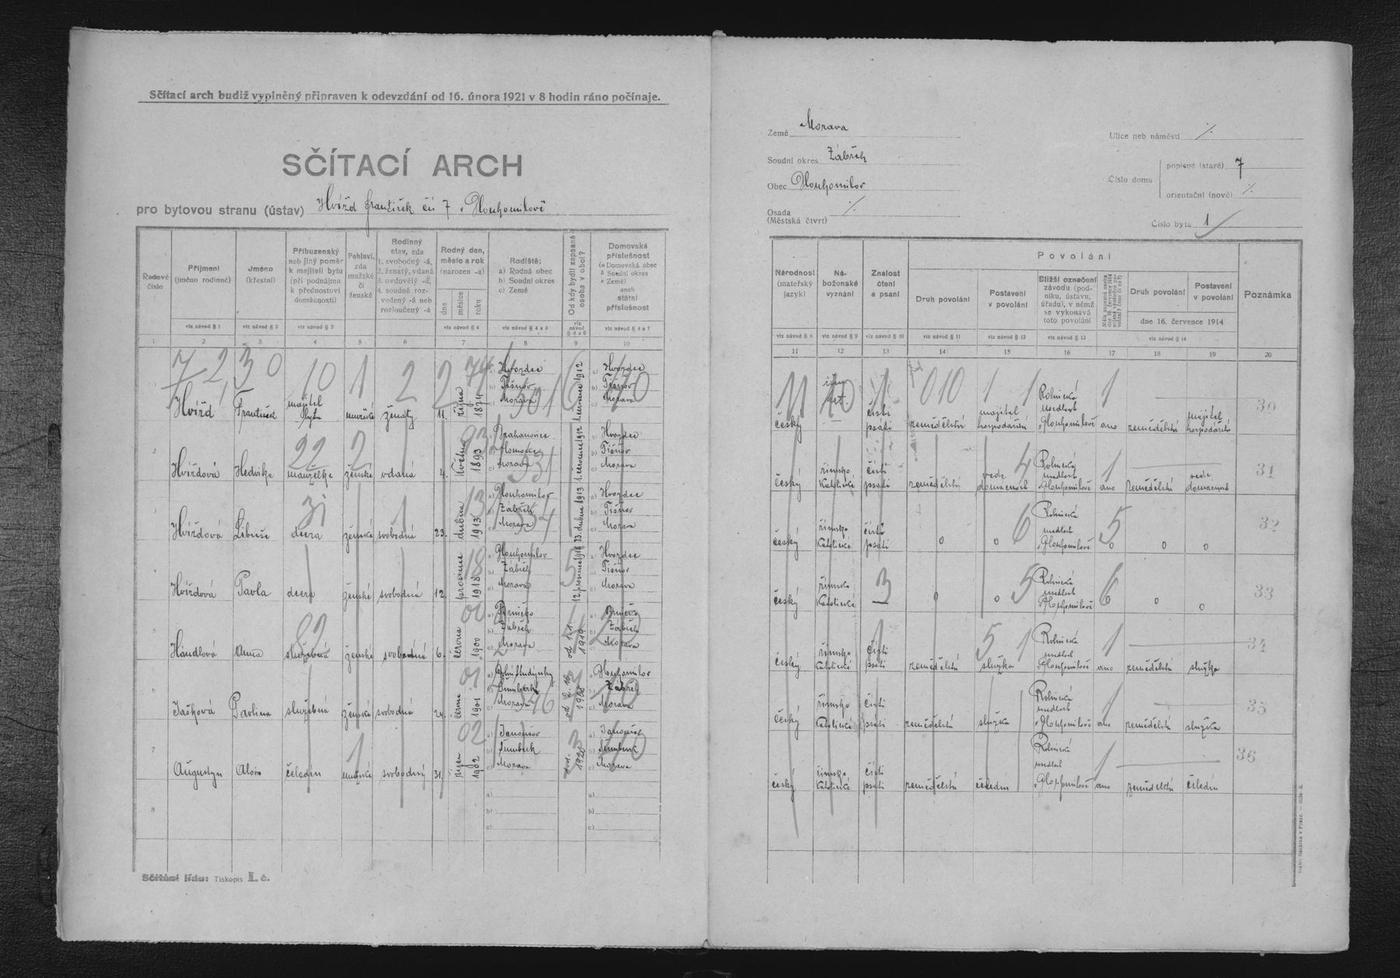
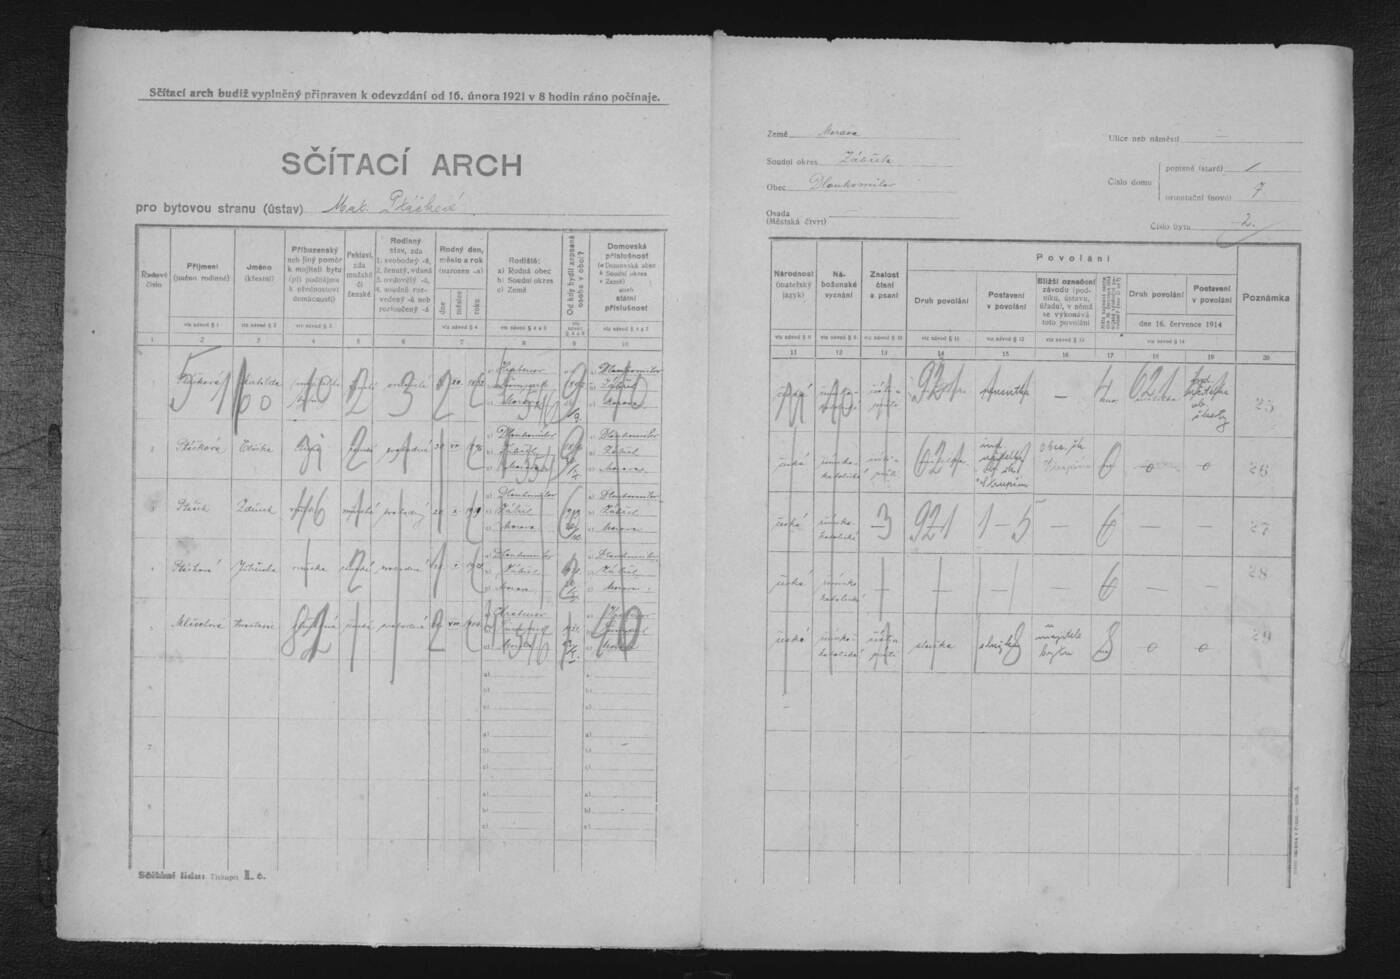
fix(cp7): overeni a oprava obyvatel bytu c. 2 rychty cp. 7 ze skenu 1921 (Ptackovi a Mlochova)

diff --git a/data/houses.js b/data/houses.js
@@ -916,7 +916,7 @@ const housesData = [
       {
         "year": "1921",
         "owner": "František Hvížď (*1874)",
-        "event": "Sčítání 1921: Majitelem rychty je František Hvížď z Hvozdce. Na výměnku žije Mathilda Ptáčková roz. Všetečková (z původního dědičného rychtářského rodu Všetečků) s dcerou Eliškou (industriální učitelka) a synem Zdeňkem (posluchač techniky v Brně), a penzionovaní rolníci Jakub a Anna Navrátilovi z Drahanovic.",
+        "event": "Sčítání 1921: Majitelem rychty je František Hvížď z Hvozdce. Na výměnku žije Mathilda Ptáčková roz. Všetečková (*1852 Hrabenov, pensistka po výuce na obecné škole) s dcerou Eliškou (*1896, industriální učitelka ve Strupšíně), vnoučaty Zdeňkem (*1919) a novorozenou Jitřenkou (*28. 1. 1921), a mladou služkou Anastasií Mlčochovou (*1904 Hrabenov). Ve třetím bytě žijí penzionovaní rolníci Jakub a Anna Navrátilovi z Drahanovic.",
         "sourceType": "verified",
         "source": "ZAO, Sčítání 1921, fascikl 3, arch čp. 7.",
         "scanFile": "assets/archives/cp7/su1000_c_pom_411_inv_c_1863_fascikl_3_null_dlouhomilov_serie_cp_1_118_1921_0036.jpg",
@@ -936,7 +936,7 @@ const housesData = [
         "date": "15. února 1921",
         "isSample": false,
         "archiveSource": "Zemský archiv v Opavě, fond Okresní úřad Zábřeh, Sčítání lidu 1921, fascikl 3, arch čp. 7 (snímky 0036, 0038, 0040, 0042)",
-        "note": "Originální sčítací operát ČSR 1921 (ověřeno z primárního skenu e538 / 0036). Dům byl rozdělen na 3 byty (14 obyvatel): Byt č. 1 (rodina nového majitele Františka Hvížďa a čeleď, 7 osob – běžné pořadové č. 30–36), Byt č. 2 (výměnek rychtářského rodu – Mathilda Ptáčková roz. Všetečková s dětmi, 5 osob) a Byt č. 3 (výměnkář Jakub Navrátil s chotí z Drahanovic, 2 osoby).",
+        "note": "Originální sčítací operát ČSR 1921 (ověřeno z primárních skenů e538 a 812b). Dům byl rozdělen na 3 byty (14 obyvatel): Byt č. 1 (rodina nového majitele Františka Hvížďa a čeleď, 7 osob – běžné pořadové č. 30–36), Byt č. 2 (výměnek – Mathilda Ptáčková roz. Všetečková, dcera industriální učitelka Eliška, vnoučata Zdeněk a Jitřenka, služebná Anastasie Mlčochová, 5 osob – běžné pořadové č. 25–29) a Byt č. 3 (výměnkář Jakub Navrátil s chotí z Drahanovic, 2 osoby).",
         "scanFile": "assets/archives/cp7/su1000_c_pom_411_inv_c_1863_fascikl_3_null_dlouhomilov_serie_cp_1_118_1921_0036.jpg",
         "scanTitle": "Sčítací operát 1921 – Bývalá dědičná rychta čp. 7",
         "inhabitants": [
@@ -1013,17 +1013,17 @@ const housesData = [
           {
             "name": "Mathilda Ptáčková roz. Všetečková",
             "relation": "Majitelka bytu č. 2 (výměnkářka)",
-            "birthDate": "2. 10. 1860",
-            "birthPlace": "Dlouhomilov",
+            "birthDate": "3. 12. 1852",
+            "birthPlace": "Hrabenov",
             "religion": "římskokatolické",
             "nationality": "československá",
-            "occupation": "Soukromnice / výměnkářka (z rodu Všetečků)",
+            "occupation": "Pensistka (bývalá industriální učitelka obecné školy, v obci od 16. 9. 1892)",
             "literacy": "čte i píše"
           },
           {
             "name": "Eliška Ptáčková",
             "relation": "Dcera",
-            "birthDate": "30. 10. 1894",
+            "birthDate": "30. 7. 1896",
             "birthPlace": "Dlouhomilov",
             "religion": "římskokatolické",
             "nationality": "československá",
@@ -1032,32 +1032,32 @@ const housesData = [
           },
           {
             "name": "Zdeněk Ptáček",
-            "relation": "Syn",
-            "birthDate": "20. 3. 1899",
+            "relation": "Vnuk Mathildy (syn Elišky)",
+            "birthDate": "20. 10. 1919",
             "birthPlace": "Dlouhomilov",
             "religion": "římskokatolické",
             "nationality": "československá",
-            "occupation": "Posluchač České vysoké školy technické v Brně",
-            "literacy": "čte i píše"
+            "occupation": "Dítě v rodině",
+            "literacy": "nečte ani nepíše"
           },
           {
-            "name": "Gertruda Ptáčková",
-            "relation": "Vnučka",
-            "birthDate": "4. 7. 1914",
-            "birthPlace": "Bruntál",
+            "name": "Jitřenka Ptáčková",
+            "relation": "Vnučka Mathildy (dcera Elišky)",
+            "birthDate": "28. 1. 1921",
+            "birthPlace": "Dlouhomilov",
             "religion": "římskokatolické",
             "nationality": "československá",
-            "occupation": "Dítě / školačka",
-            "literacy": "čte i píše"
+            "occupation": "Kojenec (14 dní)",
+            "literacy": "nečte ani nepíše"
           },
           {
-            "name": "Františka Kleselová",
+            "name": "Anastasie Mlčochová",
             "relation": "Služebná u bytu č. 2",
-            "birthDate": "2. 8. 1846",
-            "birthPlace": "Nedvězí",
+            "birthDate": "28. 8. 1904",
+            "birthPlace": "Hrabenov",
             "religion": "římskokatolické",
             "nationality": "československá",
-            "occupation": "Služebná u výměnkářky",
+            "occupation": "Služebná v domácnosti (v obci od 13. 1. 1921)",
             "literacy": "čte i píše"
           },
           {

diff --git a/data/census_registry.js b/data/census_registry.js
@@ -169,12 +169,12 @@ const censusRegistryData = [
     "categoryLabel": "Výměnkář / Výměnkářka",
     "categoryIcon": "👴",
     "categoryBadgeClass": "bg-stone-100 text-stone-900 border-stone-300",
-    "birthDate": "2. 10. 1860",
+    "birthDate": "3. 12. 1852",
     "relation": "Majitelka bytu č. 2 (výměnkářka)",
-    "birthPlace": "Dlouhomilov",
+    "birthPlace": "Hrabenov",
     "religion": "římskokatolické",
     "language": "československá",
-    "occupation": "Soukromnice / výměnkářka (z rodu Všetečků)",
+    "occupation": "Pensistka (bývalá industriální učitelka obecné školy, v obci od 16. 9. 1892)",
     "notes": "Majitelka bytu č. 2 (výměnkářka) | gramotnost: čte i píše",
     "scanFile": "assets/archives/cp7/su1000_c_pom_411_inv_c_1863_fascikl_3_null_dlouhomilov_serie_cp_1_118_1921_0036.jpg",
     "scanTitle": "Sčítací operát 1921 – Bývalá dědičná rychta čp. 7 (Mathilda Ptáčková roz. Všetečková)"
@@ -191,7 +191,7 @@ const censusRegistryData = [
     "categoryLabel": "Vzdělanec / Správa / Duchovní",
     "categoryIcon": "🎓",
     "categoryBadgeClass": "bg-indigo-100 text-indigo-950 border-indigo-300",
-    "birthDate": "30. 10. 1894",
+    "birthDate": "30. 7. 1896",
     "relation": "Dcera",
     "birthPlace": "Dlouhomilov",
     "religion": "římskokatolické",
@@ -209,17 +209,17 @@ const censusRegistryData = [
     "fullName": "Zdeněk Ptáček",
     "firstName": "Zdeněk",
     "lastName": "Ptáček",
-    "categoryKey": "rodina",
-    "categoryLabel": "Člen rodiny hospodáře",
-    "categoryIcon": "👨👩👧",
-    "categoryBadgeClass": "bg-sky-100 text-sky-950 border-sky-300",
-    "birthDate": "20. 3. 1899",
-    "relation": "Syn",
+    "categoryKey": "dite",
+    "categoryLabel": "Dítě / Školák",
+    "categoryIcon": "🧒",
+    "categoryBadgeClass": "bg-pink-100 text-pink-950 border-pink-300",
+    "birthDate": "20. 10. 1919",
+    "relation": "Vnuk Mathildy (syn Elišky)",
     "birthPlace": "Dlouhomilov",
     "religion": "římskokatolické",
     "language": "československá",
-    "occupation": "Posluchač České vysoké školy technické v Brně",
-    "notes": "Syn | gramotnost: čte i píše",
+    "occupation": "Dítě v rodině",
+    "notes": "Vnuk Mathildy (syn Elišky) | gramotnost: nečte ani nepíše",
     "scanFile": "assets/archives/cp7/su1000_c_pom_411_inv_c_1863_fascikl_3_null_dlouhomilov_serie_cp_1_118_1921_0036.jpg",
     "scanTitle": "Sčítací operát 1921 – Bývalá dědičná rychta čp. 7 (Zdeněk Ptáček)"
   },
@@ -228,44 +228,44 @@ const censusRegistryData = [
     "censusYear": 1921,
     "houseNumber": "7",
     "houseId": "cp7",
-    "fullName": "Gertruda Ptáčková",
-    "firstName": "Gertruda",
+    "fullName": "Jitřenka Ptáčková",
+    "firstName": "Jitřenka",
     "lastName": "Ptáčková",
     "categoryKey": "dite",
     "categoryLabel": "Dítě / Školák",
     "categoryIcon": "🧒",
     "categoryBadgeClass": "bg-pink-100 text-pink-950 border-pink-300",
-    "birthDate": "4. 7. 1914",
-    "relation": "Vnučka",
-    "birthPlace": "Bruntál",
+    "birthDate": "28. 1. 1921",
+    "relation": "Vnučka Mathildy (dcera Elišky)",
+    "birthPlace": "Dlouhomilov",
     "religion": "římskokatolické",
     "language": "československá",
-    "occupation": "Dítě / školačka",
-    "notes": "Vnučka | gramotnost: čte i píše",
+    "occupation": "Kojenec (14 dní)",
+    "notes": "Vnučka Mathildy (dcera Elišky) | gramotnost: nečte ani nepíše",
     "scanFile": "assets/archives/cp7/su1000_c_pom_411_inv_c_1863_fascikl_3_null_dlouhomilov_serie_cp_1_118_1921_0036.jpg",
-    "scanTitle": "Sčítací operát 1921 – Bývalá dědičná rychta čp. 7 (Gertruda Ptáčková)"
+    "scanTitle": "Sčítací operát 1921 – Bývalá dědičná rychta čp. 7 (Jitřenka Ptáčková)"
   },
   {
     "id": "cen_12",
     "censusYear": 1921,
     "houseNumber": "7",
     "houseId": "cp7",
-    "fullName": "Františka Kleselová",
-    "firstName": "Františka",
-    "lastName": "Kleselová",
-    "categoryKey": "vymenek",
-    "categoryLabel": "Výměnkář / Výměnkářka",
-    "categoryIcon": "👴",
-    "categoryBadgeClass": "bg-stone-100 text-stone-900 border-stone-300",
-    "birthDate": "2. 8. 1846",
+    "fullName": "Anastasie Mlčochová",
+    "firstName": "Anastasie",
+    "lastName": "Mlčochová",
+    "categoryKey": "celed",
+    "categoryLabel": "Čeleď a služebnictvo",
+    "categoryIcon": "🐎",
+    "categoryBadgeClass": "bg-amber-100 text-amber-950 border-amber-300",
+    "birthDate": "28. 8. 1904",
     "relation": "Služebná u bytu č. 2",
-    "birthPlace": "Nedvězí",
+    "birthPlace": "Hrabenov",
     "religion": "římskokatolické",
     "language": "československá",
-    "occupation": "Služebná u výměnkářky",
+    "occupation": "Služebná v domácnosti (v obci od 13. 1. 1921)",
     "notes": "Služebná u bytu č. 2 | gramotnost: čte i píše",
     "scanFile": "assets/archives/cp7/su1000_c_pom_411_inv_c_1863_fascikl_3_null_dlouhomilov_serie_cp_1_118_1921_0036.jpg",
-    "scanTitle": "Sčítací operát 1921 – Bývalá dědičná rychta čp. 7 (Františka Kleselová)"
+    "scanTitle": "Sčítací operát 1921 – Bývalá dědičná rychta čp. 7 (Anastasie Mlčochová)"
   },
   {
     "id": "cen_13",
